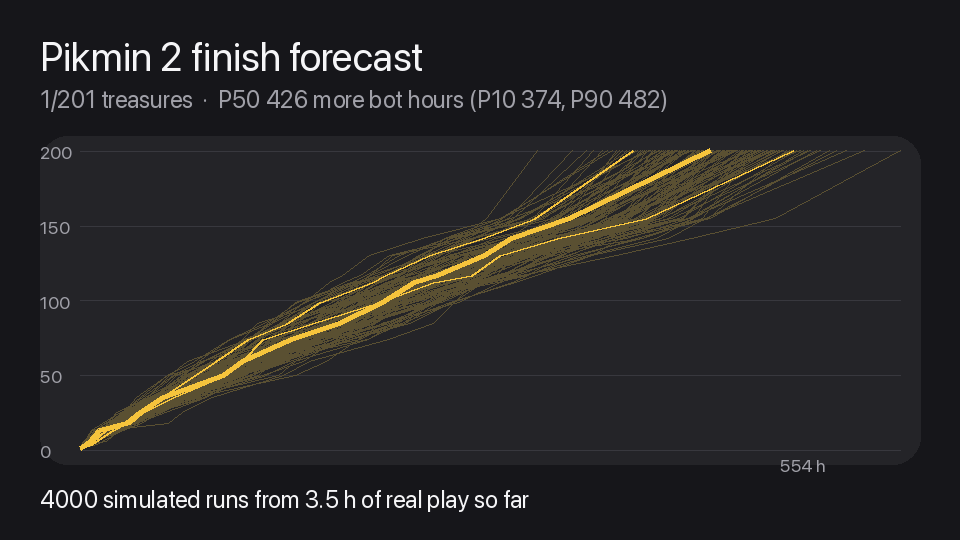
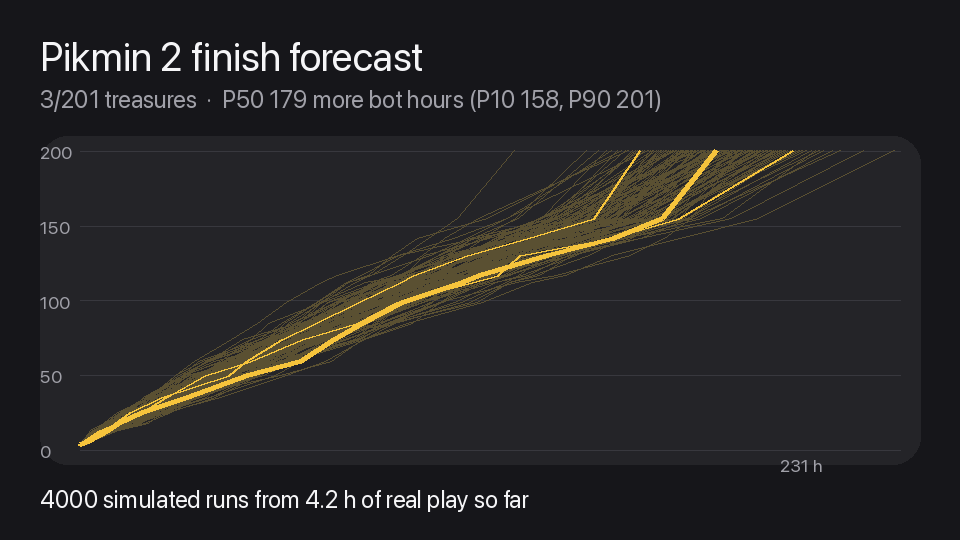
Pikmin: Spherical Atlas home, out of Emergence Cave by the geyser; day-end save script
Claude-Session: https://claude.ai/code/session_01GRUokM32JgeWkBY35PaRht

diff --git a/games/pikmin/dayend.py b/games/pikmin/dayend.py
@@ -1,0 +1,20 @@
+"""Wait for sunset with everyone in the squad, then press A through the results until the memory card is written."""
+import os, time
+import pk2
+
+GCI = "/Volumes/LaCie/dolphin-duke/GC/EUR/Card A/01-GPVP-Pikmin2_SaveData.gci"
+pad = pk2.Pad()
+pk2.gather(pad)
+print("squad", pk2.squad(0), "alive", pk2.alive(), flush=True)
+while not pk2.frozen(pad):                      # sunset takes the stick away
+    time.sleep(5)
+print("sunset", pk2.shot("sunset4"), flush=True)
+t0 = os.path.getmtime(GCI)
+for i in range(200):
+    if os.path.getmtime(GCI) > t0:
+        print("saved", i, flush=True); break
+    pad.press("A", after=1.5)
+    if i % 20 == 0:
+        print("press", i, pk2.shot(f"end{i}"), flush=True)
+time.sleep(5)
+print(pk2.shot("day5"), flush=True)

diff --git a/games/pikmin/pk2.py b/games/pikmin/pk2.py
@@ -150,8 +150,11 @@ def frozen(pad):
 def control(pad, tries=60):
     """Press A through dialogue until the stick moves Olimar again. A only: START in the field opens the pause menu."""
     for i in range(tries):
-        if moved(pad, 0, 1 if i % 2 else -1):
-            return i
+        try:
+            if moved(pad, 0, 1 if i % 2 else -1):
+                return i
+        except ValueError:                    # captains are unloaded during a floor or area change
+            pass
         pad.press("A", after=1.2)
     raise TimeoutError("no control")
 

diff --git a/games/pikmin/pk2items.py b/games/pikmin/pk2items.py
@@ -27,7 +27,7 @@ def pellets(kind="treasure"):
     return out
 
 
-ITEM_MGRS = {"cave": 0x80516820, "gate": 0x805167B0, "downfloor": 0x80516860, "bridge": 0x80516838}
+ITEM_MGRS = {"cave": 0x80516820, "gate": 0x805167B0, "downfloor": 0x80516860, "bridge": 0x80516838, "fountain": 0x80516830}
 
 
 def items(kind):
